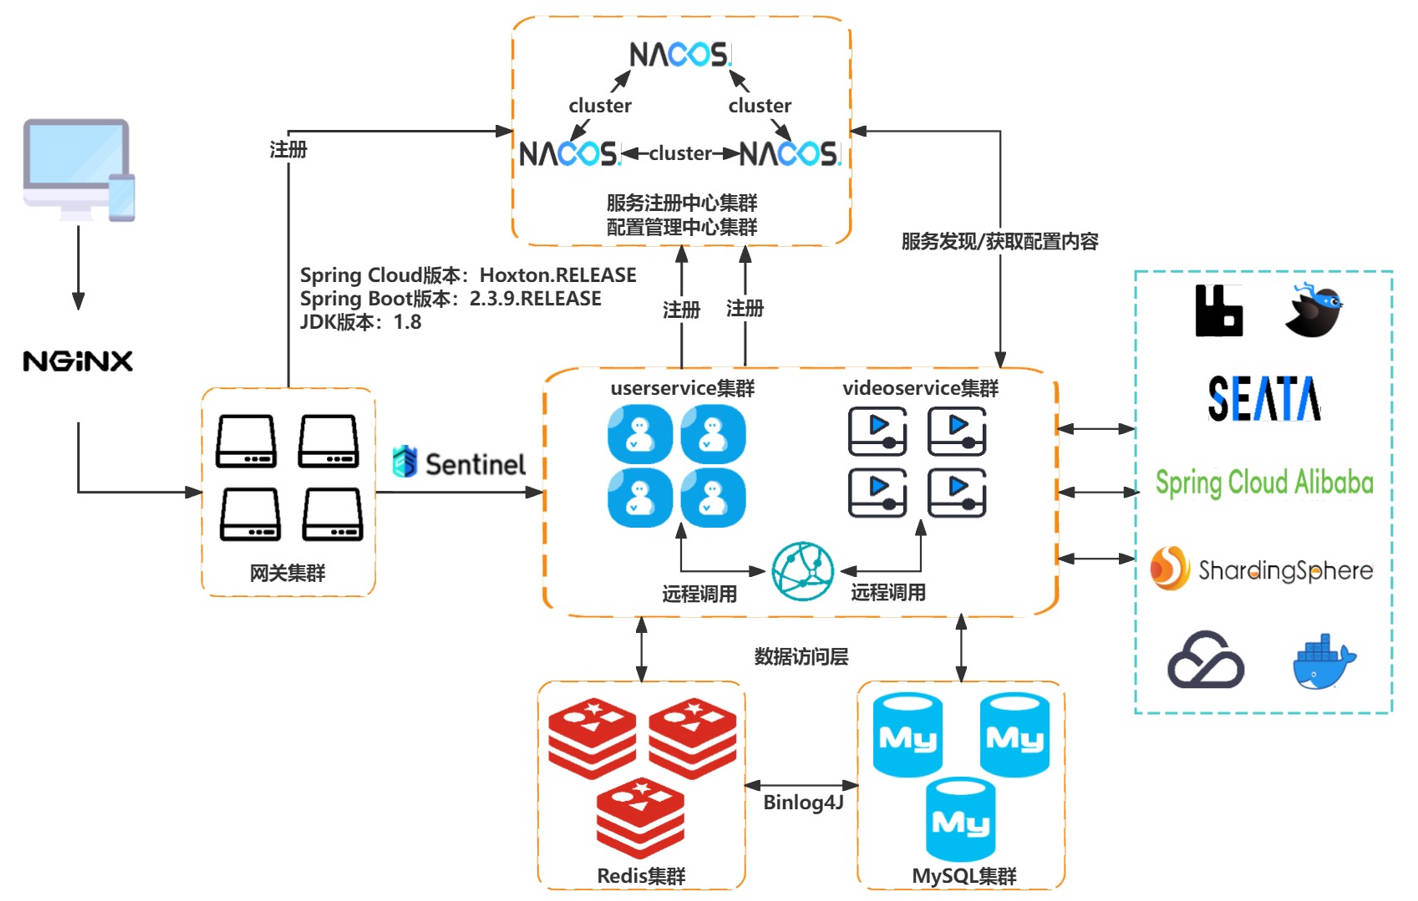
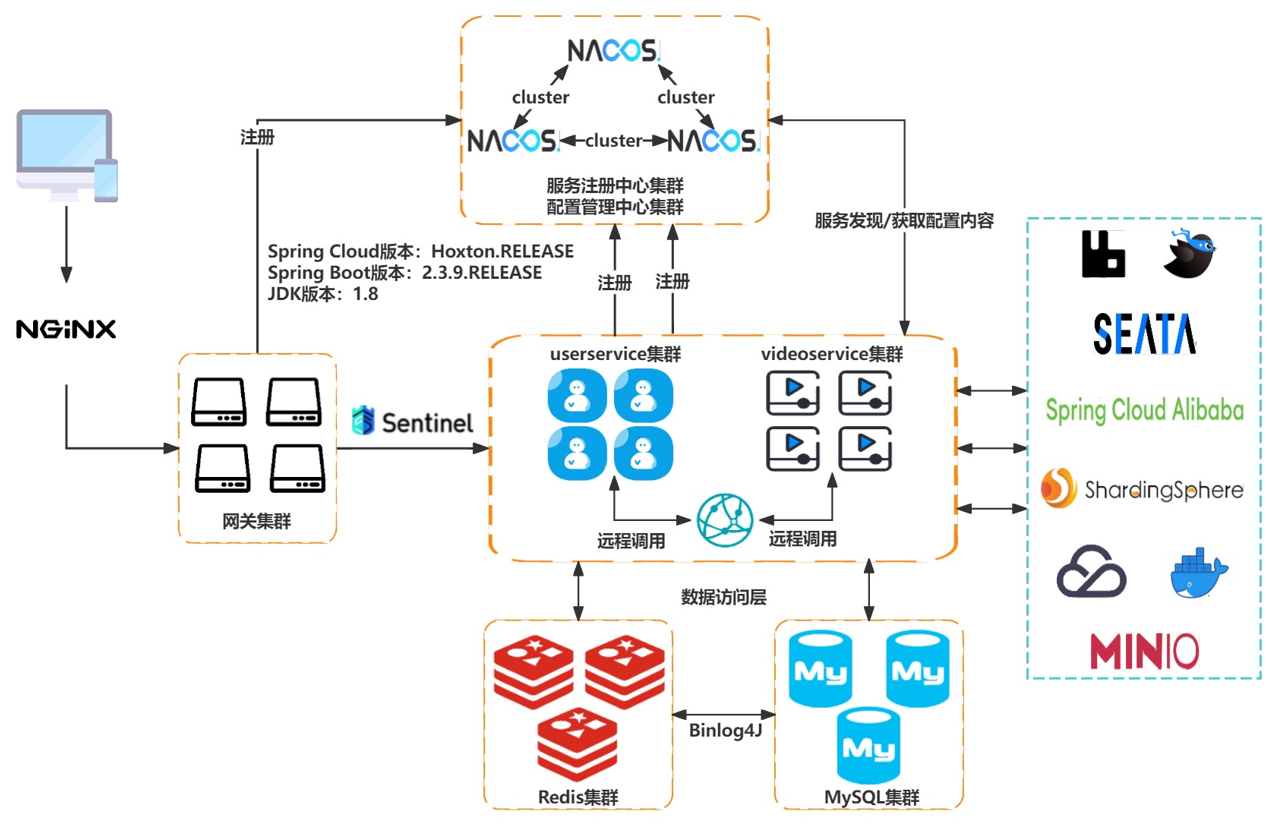
增加minio相关功能 :boom:

diff --git a/common/src/main/java/com/zzzi/common/utils/MinioUploadUtils.java b/common/src/main/java/com/zzzi/common/utils/MinioUploadUtils.java
@@ -1,0 +1,45 @@
+package com.zzzi.common.utils;
+
+import io.minio.MinioClient;
+import io.minio.PutObjectOptions;
+import io.minio.errors.InvalidEndpointException;
+import io.minio.errors.InvalidPortException;
+import lombok.extern.slf4j.Slf4j;
+import org.springframework.beans.factory.annotation.Autowired;
+import org.springframework.stereotype.Component;
+
+import java.io.*;
+import java.time.LocalDateTime;
+import java.util.UUID;
+
+@Slf4j
+@Component
+public class MinioUploadUtils {
+    @Autowired
+    private MinioUtils minioUtils;
+
+    public String upload(File file, String suffix) throws InvalidPortException, InvalidEndpointException, IOException {
+        // 初始化minio客户端
+        MinioClient client = new MinioClient(minioUtils.getEndPoint(), minioUtils.getAccessKey(), minioUtils.getSecretKey());
+
+        //获取文件输入流
+        InputStream inputStream = new FileInputStream(file);
+        try {
+            // 生成唯一文件名，当前时间 +UUID+ 文件类型
+            //指定文件保存的路径为存储桶下面的tiktok/文件夹下
+            String choice = suffix.equals("_cover.jpg") ? "cover/" : "video/";
+            String fileName = "tiktok/" + choice + LocalDateTime.now() + UUID.randomUUID() + suffix;
+
+            //上传文件
+            client.putObject(minioUtils.getBucketName(), fileName, inputStream, new PutObjectOptions(inputStream.available(), -1));
+
+            //返回上传的URL路径
+            String url = client.getObjectUrl("tiktok", fileName);	//文件访问路径
+            return url;
+        } catch (Exception e) {
+            throw new RuntimeException("上传失败");
+        } finally {
+            inputStream.close();
+        }
+    }
+}

diff --git a/video-service/src/test/java/com/zzzi/videoservice/VideoServiceApplicationTests.java b/video-service/src/test/java/com/zzzi/videoservice/VideoServiceApplicationTests.java
@@ -2,21 +2,29 @@ package com.zzzi.videoservice;
 
 import com.baomidou.mybatisplus.core.conditions.query.LambdaQueryWrapper;
 import com.zzzi.common.utils.JwtUtils;
+import com.zzzi.common.utils.MinioUploadUtils;
 import com.zzzi.videoservice.entity.VideoDO;
 import com.zzzi.videoservice.mapper.VideoMapper;
+import io.minio.errors.InvalidEndpointException;
+import io.minio.errors.InvalidPortException;
 import org.junit.jupiter.api.Test;
 import org.springframework.beans.factory.annotation.Autowired;
 import org.springframework.boot.test.context.SpringBootTest;
 
 import javax.xml.transform.Source;
+import java.io.File;
+import java.io.IOException;
 import java.text.SimpleDateFormat;
 import java.util.Date;
 import java.util.List;
+import java.util.PriorityQueue;
 
 @SpringBootTest
 class VideoServiceApplicationTests {
     @Autowired
     private VideoMapper videoMapper;
+    @Autowired
+    private MinioUploadUtils minioUploadUtils;
 
     @Test
     void contextLoads() {
@@ -58,6 +66,12 @@ class VideoServiceApplicationTests {
         for (VideoDO videoDO : videoDOList) {
             System.out.println("每个视频的时间：" + videoDO.getUpdateTime().getTime());
         }
+    }
 
+    @Test
+    void testMinio() throws IOException, InvalidPortException, InvalidEndpointException {
+        File file = new File("C:\\Users\\zzzi\\Desktop\\3daec69277cdeac317257f588ee.mp4");
+        String upload = minioUploadUtils.upload(file, ".,mp4");
+        System.out.println(upload);
     }
 }

diff --git a/common/src/main/java/com/zzzi/common/utils/MinioUtils.java b/common/src/main/java/com/zzzi/common/utils/MinioUtils.java
@@ -1,0 +1,16 @@
+package com.zzzi.common.utils;
+
+import lombok.Data;
+import org.springframework.boot.context.properties.ConfigurationProperties;
+import org.springframework.stereotype.Component;
+
+@Data
+@Component
+@ConfigurationProperties(prefix = "minio")
+public class MinioUtils {
+    private String endPoint;
+    private String accessKey;
+    private String secretKey;
+    private String bucketName;
+
+}
